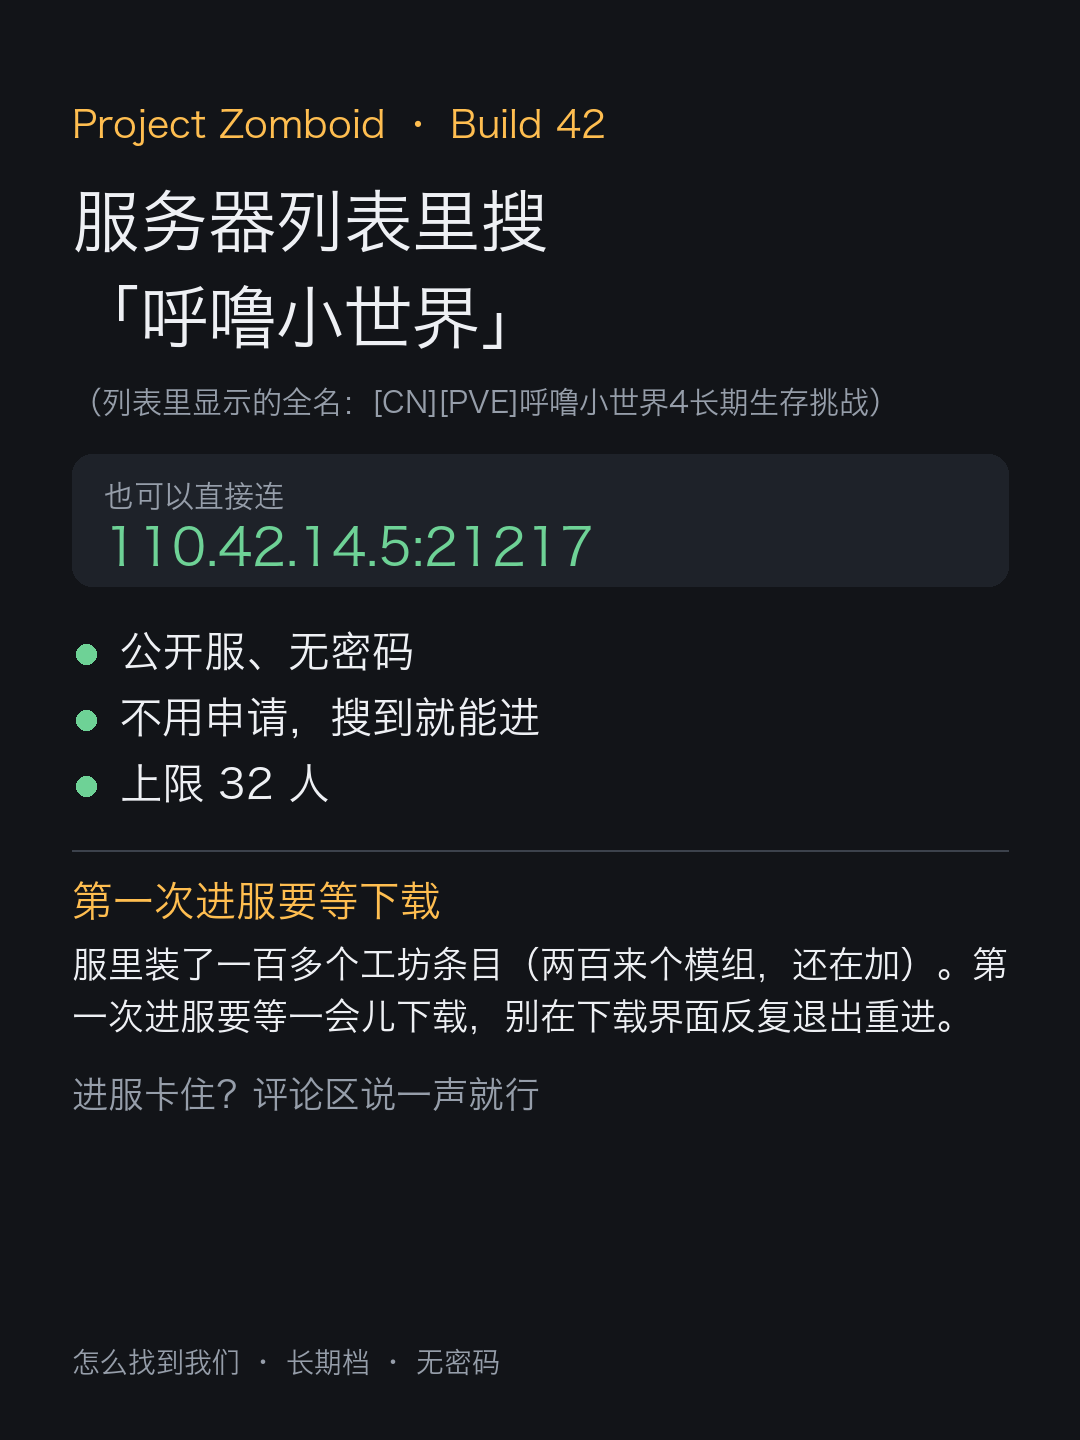
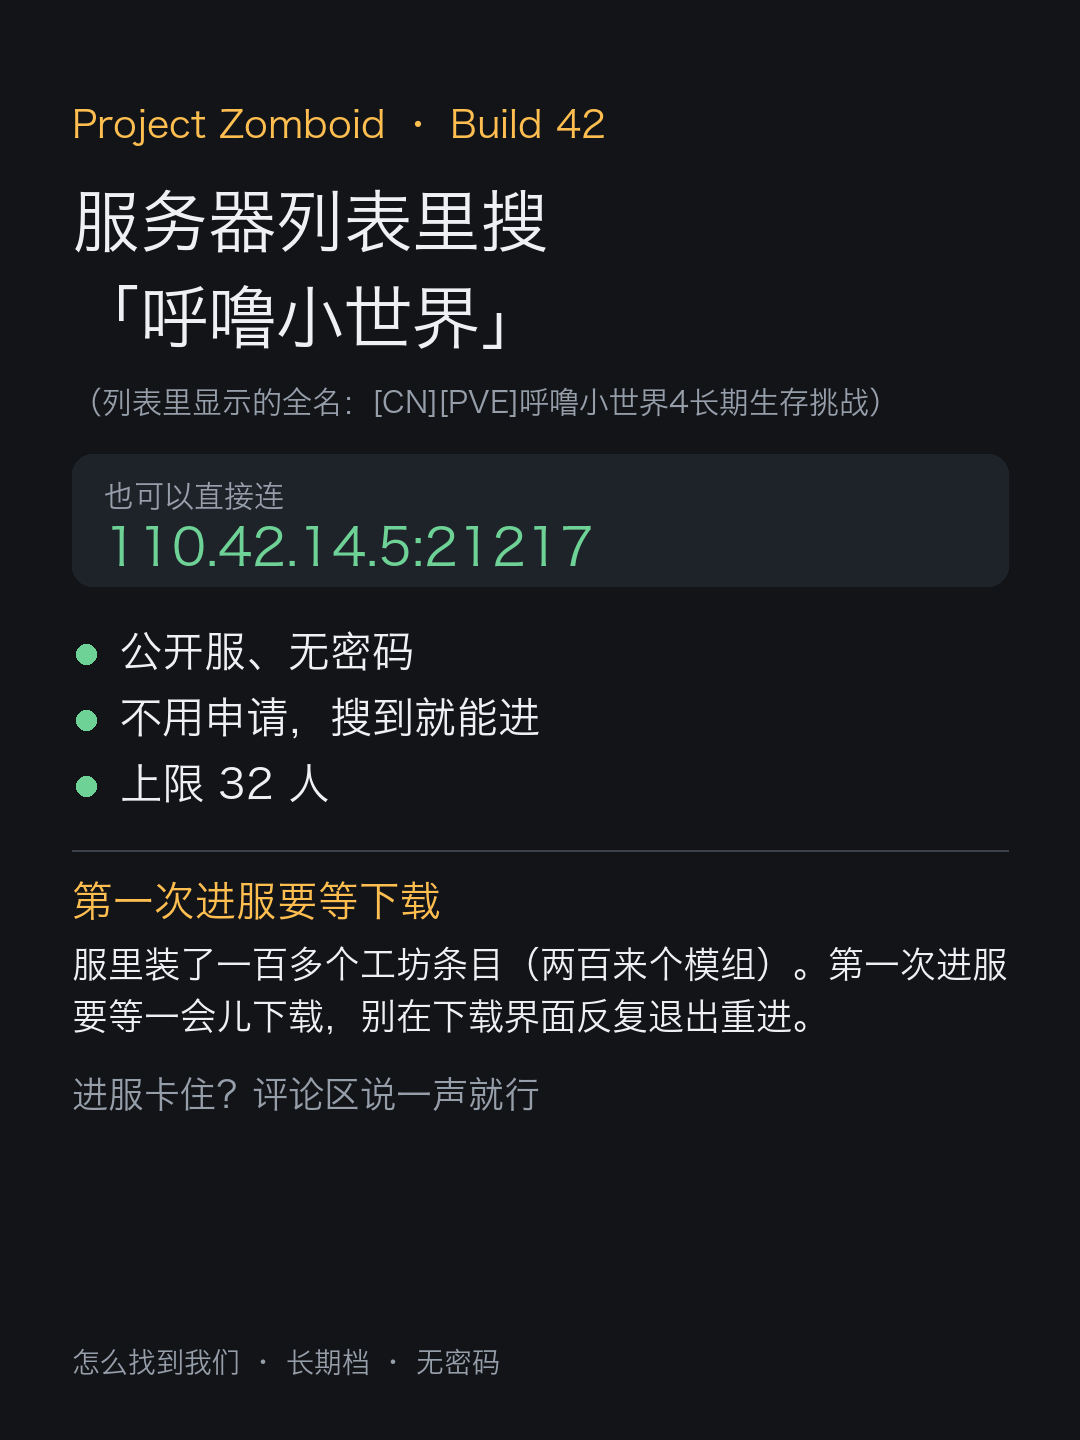
xhs 招人: 删掉开放式的'还在加'(正文+卡片一并改, 卡由 make_note_recruit.py 重出) + 脚本里的图2/3提醒改成客户端实拍口径

Changed region(s): [[0.0611, 0.6562, 0.9472, 0.7188]]

diff --git a/docs/xhs/make_note_recruit.py b/docs/xhs/make_note_recruit.py
@@ -3,8 +3,10 @@
 """生成小红书「招人」素材：怎么找到我们（1 张卡）。
 
 **这一篇的文字口径全部来自服务器侧素材 `docs/server-ops/recruiting.md`（2026-10-13 订正到 437d340），
-不是我自己写的**：地址/端口、无需申请（线上 `Open=true`）、上限 32 人、模组数写"一百多个条目、还在加"。
-**不写**：在线人数、玩法模式（线上 `PVP=true` 与名字里的 PVE 冲突未定）、KOOK 链接（两个短链未定）。
+不是我自己写的**：地址/端口、无需申请（线上 `Open=true`）、上限 32 人、模组数写**范围值**「一百多个工坊条目（两百来个模组）」。
+**不写**：在线人数、玩法模式（线上 `PVP=true` 与名字里的 PVE 冲突未定）、KOOK 链接（两个短链未定）、
+以及**一切会过期的"服务器当前状态"**——含「人还不多」「还在加」这类开放式说法（2026-10-14 19:34 定，与 B 站/QQ 同口径；
+范围值有冗余、属"这个包自己的规模"故保留，「还在加」是开放式的、且不是我能承诺的，故删）。
 
 和 make_note.py / make_note_salt.py / make_note_rake.py 共用同一套画卡工具（import make_note）。
 
@@ -24,7 +26,7 @@ OUT_DEFAULT = os.path.join(HERE, "笔记素材-招人")
 # ── 口径常量（改这里就等于改稿；名字/端口只能来自服务器侧素材）────────────
 SERVER_NAME = "呼噜小世界"          # 线上 PublicName = [CN][PVE]呼噜小世界4长期生存挑战（列表里搜这个前缀能搜到）
 SERVER_ADDR = "110.42.14.5:21217"   # 端口 21217；16261 是游戏默认端口、本服没登记，写它是错的
-MODPACK = "一百多个工坊条目（两百来个模组，还在加）"
+MODPACK = "一百多个工坊条目（两百来个模组）"
 
 FACTS = [
     "公开服、无密码",
@@ -86,7 +88,8 @@ def main():
     print("已生成到", out)
     print("  招人卡1-怎么找到我们.png")
     print("服务器名：", SERVER_NAME, "／地址：", SERVER_ADDR)
-    print("提醒：图 2/3 是 B 站侧从那场直播录屏抽的帧（带文件名+时间戳、不带玩家昵称），不在这里生成。")
+    print("提醒：图 2/3 是 ① 的服内实拍（2026-10-14 19:32 起：来源不再限定直播，客户端实拍即可；要文件名+时间、不带玩家昵称/uid，"
+          "并注明是录屏抽帧还是手动截图），不在这里生成；拿不到实拍图时按 `文案.md` 的兜底发卡片单图版。")
 
 
 if __name__ == "__main__":

diff --git a/docs/xhs/笔记素材-招人/文案.md b/docs/xhs/笔记素材-招人/文案.md
@@ -3,7 +3,7 @@
 > **状态：备稿，未发布。** 文字口径全部来自服务器侧素材 `docs/server-ops/recruiting.md`（2026-10-13 订正到 `437d340`）与线上 RCON 实测；
 > **2026-10-14 19:3x 更新（口径落定，旧的"卡住三件事"作废）**：①**牌子名＝默认不改**（服务器运营：改名需需求方点头，要改他先给我一句）⇒ 正文照现名写；②**玩法模式不写**（`PVP=true` 与名字里的 `[CN][PVE]` 冲突，两种写法我都核不住要承诺什么）；③**唯一还卡的是图 2/3＝① 的服内实拍**（来法与兜底见下面「配图」一节）。
 > **我不写**：在线人数，**连"人还不多"这类人数相关的句子也不写**（同样是动态量、我核不住）；正文不含任何"进去就有人陪你"的暗示，所以不欠那句诚实版。
-> **边界（2026-10-14 19:34 定，与 @QQ运营 同口径）**：一律不写"服务器当前状态"（玩家数、活跃度、"有人一起玩"）；而**"这个包自己的规模"算包属性，保留**——正文的「一百多个工坊条目（两百来个模组，还在加）」和卡上同名那句都属这一类（近似数、有富余，改包才会变），**不为这句重出卡片**。
+> **边界（2026-10-14 19:34 定，**19:35 按 B 站的更严读法**修正，与 B 站/QQ 同口径）**：一律不写"服务器当前状态"（玩家数、活跃度、"有人一起玩"、**以及"还在加"这类开放式状态**）；**范围值保留**——正文与卡上的「一百多个工坊条目（两百来个模组）」属"这个包自己的规模"（近似数、有富余，改包才会变），**精确数 185/209 与读数日期只留在素材文件里、不进正文**。**"还在加"已从正文与卡片一并删除**（卡片由 `make_note_recruit.py` 重出，脚本里的 `MODPACK` 同步改过）。
 > **本文件里凡是写出数字/事实的句子，都能指回上面那两份来源之一**；不要凭印象加句子。
 
 ## 标题（16 字）
@@ -16,7 +16,7 @@
 
 · 公开服、无密码、不用申请，搜到就能进
 · 长期档（服务器自己的档期口径，别再往下加"开了多久""多久重置"这类话）
-· 服里装了一百多个工坊条目（两百来个模组，还在加）：EPR 电力系统、ERS 能源路由、实验室探索、交易站兑换，还有中文翻译包
+· 服里装了一百多个工坊条目（两百来个模组）：EPR 电力系统、ERS 能源路由、实验室探索、交易站兑换，还有中文翻译包
 · 第一次进服要等下载，慢是正常的——别在下载界面反复退出重进
 
 我自己做的模组（bin2 扩展）也在里面，做的都是「原版没地方造、可配方又要求」的那类缺口：制盐、螺母与螺栓、锻造耙头……
